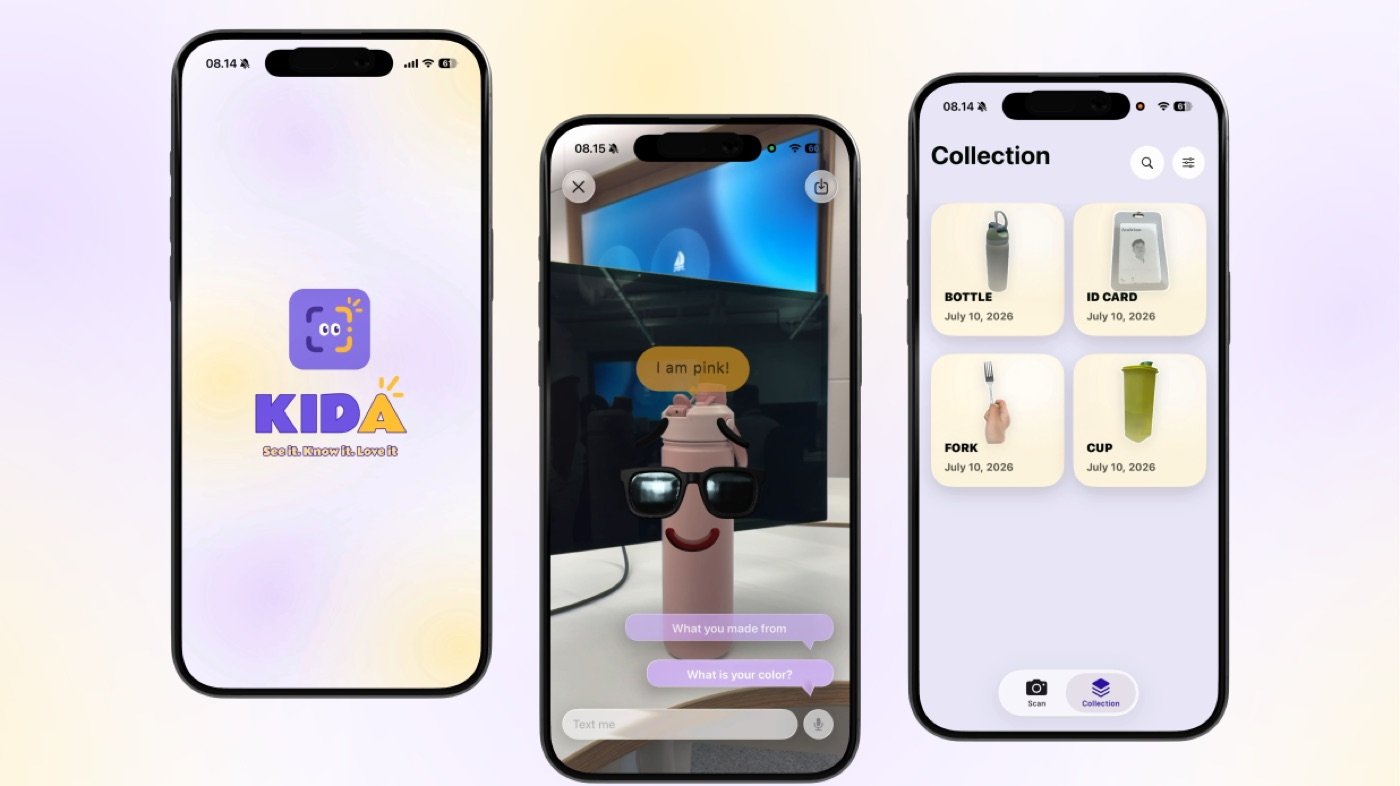
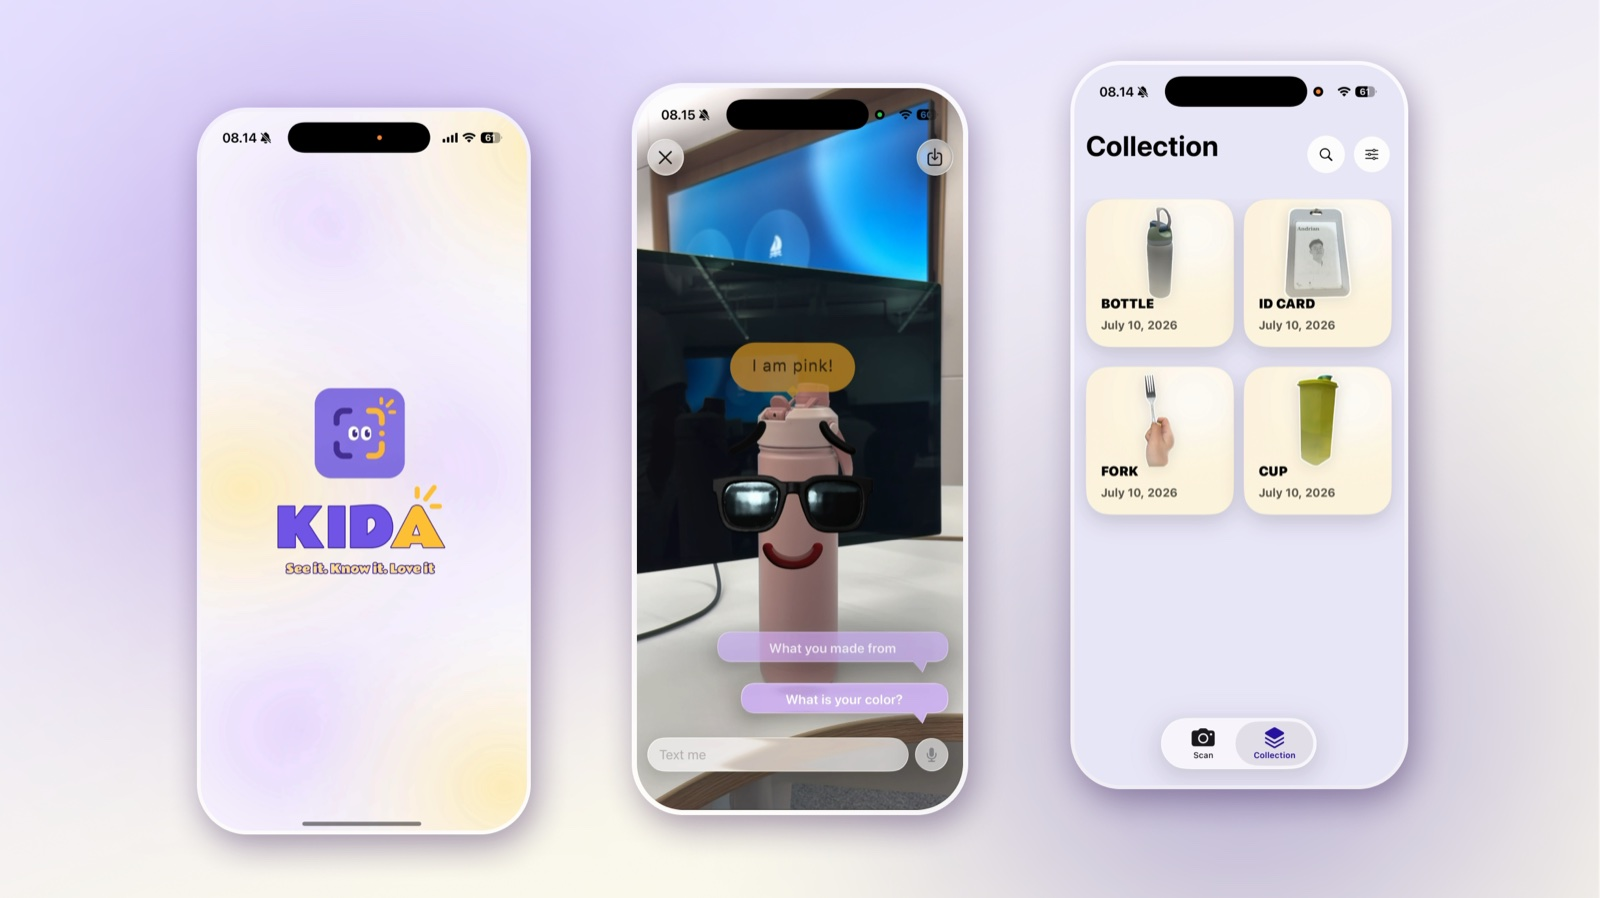
Update Porto

diff --git a/index.html b/index.html
@@ -12,7 +12,7 @@
   <link rel="preconnect" href="https://fonts.googleapis.com" />
   <link rel="preconnect" href="https://fonts.gstatic.com" crossorigin />
   <link href="https://fonts.googleapis.com/css2?family=Inter:wght@400;500;600;700&family=Instrument+Serif:ital@0;1&display=swap" rel="stylesheet" />
-  <link rel="stylesheet" href="css/style.css?v=23" />
+  <link rel="stylesheet" href="css/style.css?v=25" />
 </head>
 <body>
 
@@ -123,47 +123,57 @@
       </p>
       <div class="grid-2">
         <article class="proj proj--card reveal">
-          <a class="proj__media" href="https://github.com/imeldamayanti" target="_blank" rel="noopener"><img src="assets/images/budgetinaja.jpg" alt="Budget-in Aja homepage" loading="lazy" /><span class="proj__title-hover">Budget-in Aja</span><span class="proj__arrow" aria-hidden="true"><svg width="18" height="18" viewBox="0 0 24 24" fill="none" stroke="currentColor" stroke-width="2.2" stroke-linecap="round" stroke-linejoin="round"><path d="M7 17 17 7" /><path d="M9 7h8v8" /></svg></span></a>
+          <a class="proj__media" href="https://stocarbon-landing.vercel.app/" target="_blank" rel="noopener"><img src="assets/images/stocarbon.jpg" alt="Stocarbon landing page" loading="lazy" /><span class="proj__title-hover">Stocarbon</span><span class="proj__arrow" aria-hidden="true"><svg width="18" height="18" viewBox="0 0 24 24" fill="none" stroke="currentColor" stroke-width="2.2" stroke-linecap="round" stroke-linejoin="round"><path d="M7 17 17 7" /><path d="M9 7h8v8" /></svg></span></a>
+          <div class="proj__body">
+            <div class="proj__meta"><h3>Stocarbon</h3><span class="label">Website</span></div>
+            <p class="proj__desc">First crowd platform for carbon stock in Indonesia — connecting landowners with companies offsetting emissions.</p>
+            <ul class="proj__stack" aria-label="Tags">
+              <li>Web</li><li>Landing Page</li>
+            </ul>
+          </div>
+        </article>
+        <article class="proj proj--card reveal">
+          <a class="proj__media" href="https://budget-in-aja.vercel.app/" target="_blank" rel="noopener"><img src="assets/images/budgetin.jpg" alt="Budget-in Aja homepage" loading="lazy" /><span class="proj__title-hover">Budget-in Aja</span><span class="proj__arrow" aria-hidden="true"><svg width="18" height="18" viewBox="0 0 24 24" fill="none" stroke="currentColor" stroke-width="2.2" stroke-linecap="round" stroke-linejoin="round"><path d="M7 17 17 7" /><path d="M9 7h8v8" /></svg></span></a>
           <div class="proj__body">
             <div class="proj__meta"><h3>Budget-in Aja</h3><span class="label">Website</span></div>
             <p class="proj__desc">A web app that helps students plan budget-friendly meals for the week.</p>
-            <ul class="proj__stack" aria-label="Tech stack">
+            <ul class="proj__stack" aria-label="Tags">
               <li>Golang</li><li>MySQL</li><li>HTML</li><li>CSS</li><li>JS</li>
             </ul>
           </div>
         </article>
         <article class="proj proj--card reveal">
-          <a class="proj__media" href="https://github.com/imeldamayanti" target="_blank" rel="noopener"><img src="assets/images/waveline.jpg" alt="Waveline website" loading="lazy" /><span class="proj__title-hover">Waveline</span><span class="proj__arrow" aria-hidden="true"><svg width="18" height="18" viewBox="0 0 24 24" fill="none" stroke="currentColor" stroke-width="2.2" stroke-linecap="round" stroke-linejoin="round"><path d="M7 17 17 7" /><path d="M9 7h8v8" /></svg></span></a>
+          <a class="proj__media" href="https://waveline-eight.vercel.app/" target="_blank" rel="noopener"><img src="assets/images/waveline.jpg" alt="Waveline stroke-detection website" loading="lazy" /><span class="proj__title-hover">Waveline</span><span class="proj__arrow" aria-hidden="true"><svg width="18" height="18" viewBox="0 0 24 24" fill="none" stroke="currentColor" stroke-width="2.2" stroke-linecap="round" stroke-linejoin="round"><path d="M7 17 17 7" /><path d="M9 7h8v8" /></svg></span></a>
           <div class="proj__body">
             <div class="proj__meta"><h3>Waveline</h3><span class="label">Website</span></div>
-            <p class="proj__desc">A clean, responsive website build with a modern front-end.</p>
+            <p class="proj__desc">IoT-powered web platform for early stroke detection.</p>
             <ul class="proj__stack" aria-label="Tags">
-              <li>Web</li><li>Front-End</li>
+              <li>Web</li><li>IoT</li>
             </ul>
           </div>
         </article>
         <article class="proj proj--card reveal">
-          <a class="proj__media" href="https://hands4math.streamlit.app/" target="_blank" rel="noopener"><img src="assets/images/hands4math.jpg" alt="Hands4Math welcome screen" loading="lazy" /><span class="proj__title-hover">Hands4Math</span><span class="proj__arrow" aria-hidden="true"><svg width="18" height="18" viewBox="0 0 24 24" fill="none" stroke="currentColor" stroke-width="2.2" stroke-linecap="round" stroke-linejoin="round"><path d="M7 17 17 7" /><path d="M9 7h8v8" /></svg></span></a>
+          <a class="proj__media" href="https://testflight.apple.com/join/XCR6herP" target="_blank" rel="noopener"><img src="assets/images/ttery.jpg" alt="ttery iOS app — settings, logo, and pick-a-task screens" loading="lazy" /><span class="proj__title-hover">ttery</span><span class="proj__arrow" aria-hidden="true"><svg width="18" height="18" viewBox="0 0 24 24" fill="none" stroke="currentColor" stroke-width="2.2" stroke-linecap="round" stroke-linejoin="round"><path d="M7 17 17 7" /><path d="M9 7h8v8" /></svg></span></a>
           <div class="proj__body">
-            <div class="proj__meta"><h3>Hands4Math</h3><span class="label">Website · AI</span></div>
-            <p class="proj__desc">Arithmetic calculator with gesture detection — solve math using ASL hand signs.</p>
+            <div class="proj__meta"><h3>ttery</h3><span class="label">iOS App</span></div>
+            <p class="proj__desc">Playful iOS energy tracker — spend your daily battery on tasks, recharge with rest. Live on TestFlight.</p>
             <ul class="proj__stack" aria-label="Tags">
-              <li>AI</li><li>Computer Vision</li><li>Streamlit</li>
+              <li>iOS</li><li>Swift</li><li>TestFlight</li>
             </ul>
           </div>
         </article>
         <article class="proj proj--card reveal">
-          <a class="proj__media" href="https://drive.google.com/file/d/1HwaXAAY8iuQWKKm7p7YE5BF4egB1NFR5/view?usp=sharing" target="_blank" rel="noopener"><img src="assets/images/gemas.jpg" alt="Gemas app UI design" loading="lazy" /><span class="proj__title-hover">Gemas</span><span class="proj__arrow" aria-hidden="true"><svg width="18" height="18" viewBox="0 0 24 24" fill="none" stroke="currentColor" stroke-width="2.2" stroke-linecap="round" stroke-linejoin="round"><path d="M7 17 17 7" /><path d="M9 7h8v8" /></svg></span></a>
+          <a class="proj__media" href="https://github.com/imeldamayanti" target="_blank" rel="noopener"><img src="assets/images/stitchtab.jpg" alt="StitchTab iOS app — explore patterns, stitch library, and pattern steps" loading="lazy" /><span class="proj__title-hover">StitchTab</span><span class="proj__arrow" aria-hidden="true"><svg width="18" height="18" viewBox="0 0 24 24" fill="none" stroke="currentColor" stroke-width="2.2" stroke-linecap="round" stroke-linejoin="round"><path d="M7 17 17 7" /><path d="M9 7h8v8" /></svg></span></a>
           <div class="proj__body">
-            <div class="proj__meta"><h3>Gemas</h3><span class="label">UI Design</span></div>
-            <p class="proj__desc">Mobile app UI design — flows and visual system crafted in Figma.</p>
+            <div class="proj__meta"><h3>StitchTab</h3><span class="label">iOS App</span></div>
+            <p class="proj__desc">Crochet companion — learn stitches, browse patterns, and follow them row by row.</p>
             <ul class="proj__stack" aria-label="Tags">
-              <li>UI/UX</li><li>Figma</li>
+              <li>iOS</li><li>Swift</li>
             </ul>
           </div>
         </article>
         <article class="proj proj--card reveal">
-          <a class="proj__media" href="https://github.com/imeldamayanti" target="_blank" rel="noopener"><img src="assets/images/kida.jpg" alt="KIDA iOS app — scan, AR chat, and collection screens" loading="lazy" /><span class="proj__title-hover">KIDA</span><span class="proj__arrow" aria-hidden="true"><svg width="18" height="18" viewBox="0 0 24 24" fill="none" stroke="currentColor" stroke-width="2.2" stroke-linecap="round" stroke-linejoin="round"><path d="M7 17 17 7" /><path d="M9 7h8v8" /></svg></span></a>
+          <a class="proj__media" href="https://portfolio-updated-one-gules.vercel.app/" target="_blank" rel="noopener"><img src="assets/images/kida.jpg?v=2" alt="KIDA iOS app — scan, AR chat, and collection screens" loading="lazy" /><span class="proj__title-hover">KIDA</span><span class="proj__arrow" aria-hidden="true"><svg width="18" height="18" viewBox="0 0 24 24" fill="none" stroke="currentColor" stroke-width="2.2" stroke-linecap="round" stroke-linejoin="round"><path d="M7 17 17 7" /><path d="M9 7h8v8" /></svg></span></a>
           <div class="proj__body">
             <div class="proj__meta"><h3>KIDA</h3><span class="label">iOS App</span></div>
             <p class="proj__desc">Kids' AR app — scan everyday objects and they come alive to chat and teach. See it, know it, love it.</p>
@@ -172,16 +182,7 @@
             </ul>
           </div>
         </article>
-        <article class="proj proj--card reveal">
-          <a class="proj__media" href="https://drive.google.com/file/d/1pflWEJiDpWsCpqrIfa3rFi1os63ERT6Z/view?usp=sharing" target="_blank" rel="noopener"><img src="assets/images/marketingdesign.jpg" alt="Marketing and design portfolio work" loading="lazy" /><span class="proj__title-hover">Marketing &amp; Design</span><span class="proj__arrow" aria-hidden="true"><svg width="18" height="18" viewBox="0 0 24 24" fill="none" stroke="currentColor" stroke-width="2.2" stroke-linecap="round" stroke-linejoin="round"><path d="M7 17 17 7" /><path d="M9 7h8v8" /></svg></span></a>
-          <div class="proj__body">
-            <div class="proj__meta"><h3>Marketing &amp; Design</h3><span class="label">Branding</span></div>
-            <p class="proj__desc">Brand and campaign design — social assets and visual direction.</p>
-            <ul class="proj__stack" aria-label="Tags">
-              <li>Branding</li><li>Social Media</li>
-            </ul>
-          </div>
-        </article>
+       
       </div>
     </section>
 